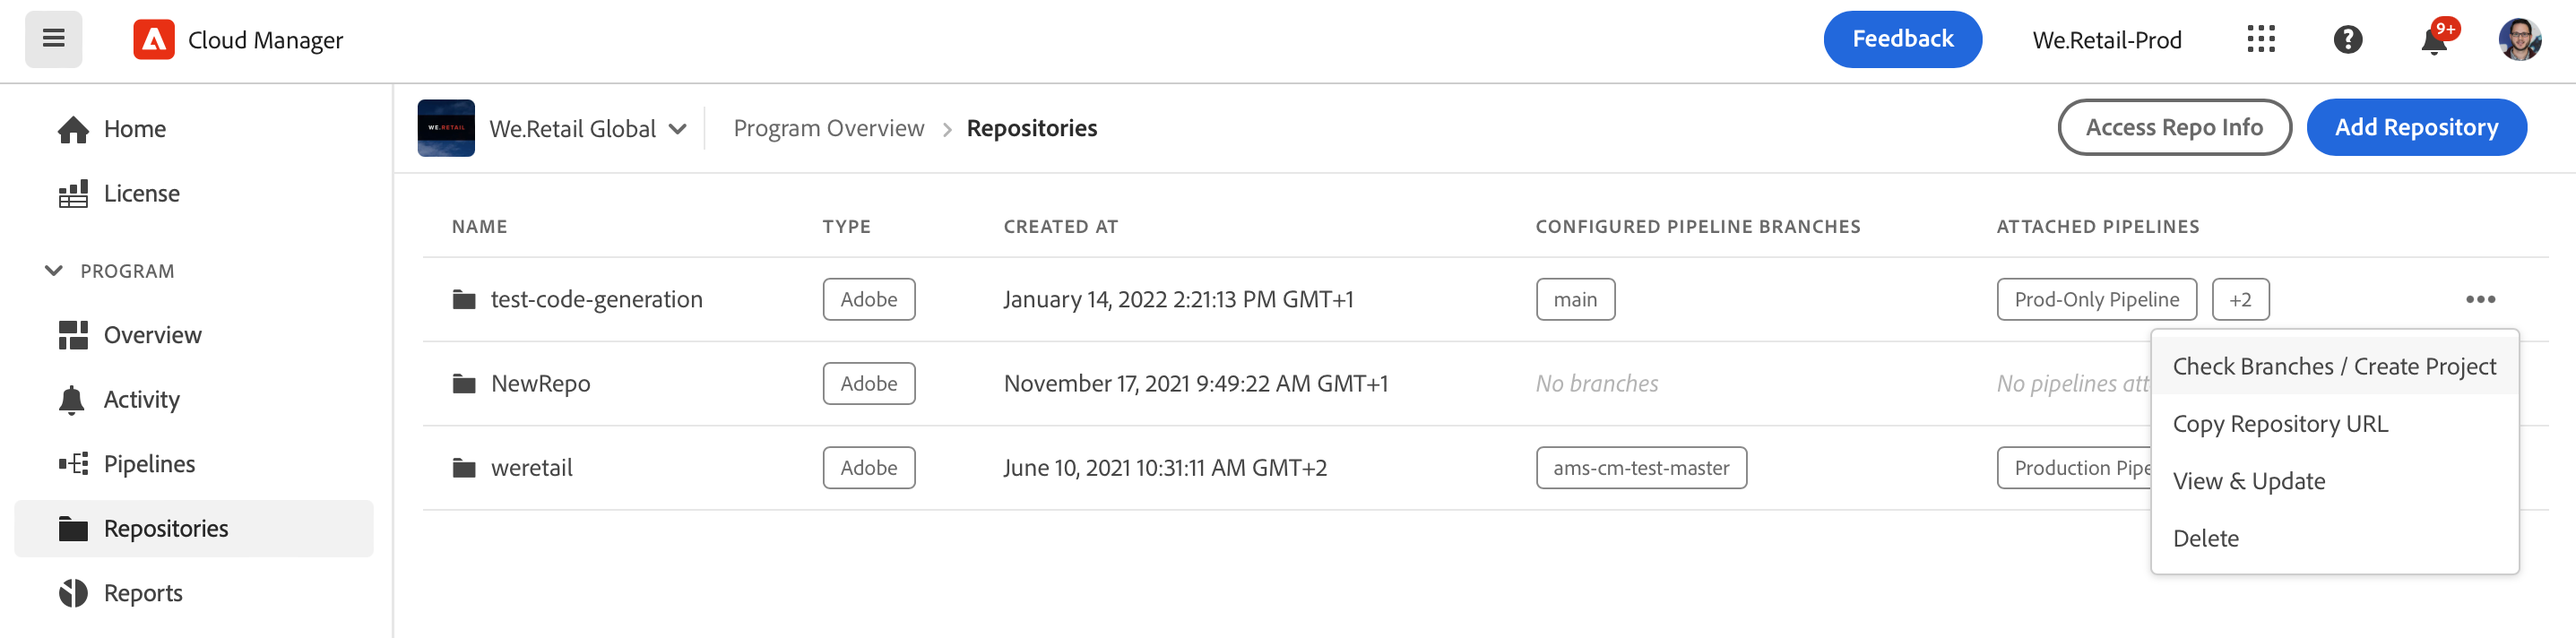
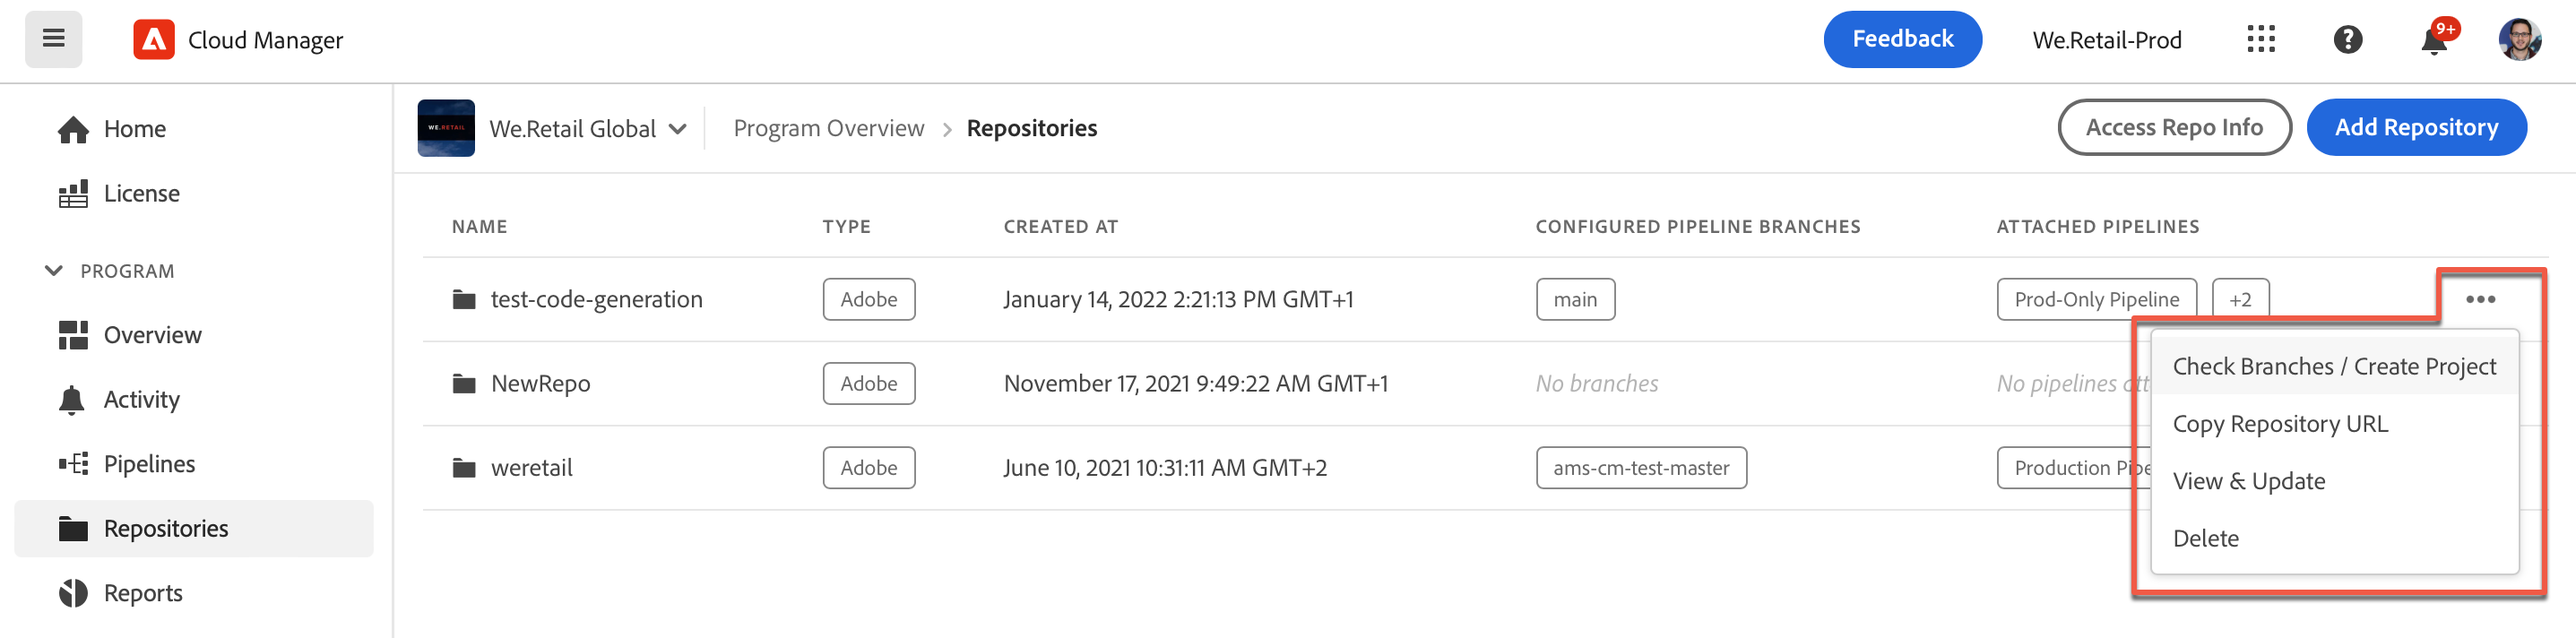
Updates and refinements

Changed region(s): [[0.8051, 0.4017, 0.991, 0.9579]]

diff --git a/help/managing-code/managing-repositories.md b/help/managing-code/managing-repositories.md
@@ -1,103 +1,101 @@
 ---
-title: Managing Repositories in Cloud Manager
-description: Learn how to create, view, and edit your Git repositories in Cloud Manager.
+title: Manage Repositories in Cloud Manager
+description: Learn how to view, add, and delete your Git repositories in Cloud Manager.
 exl-id: 384b197d-f7a7-4022-9b16-9d83ab788966
+feature: Cloud Manager, Developing
+role: Admin, Architect, Developer
 ---
 
-# Cloud Manager repositories {#cloud-manager-repos} 
+# Manage repositories in Cloud Manager {#cloud-manager-repos} 
 
-Learn how to create, view, and edit your Git repositories in Cloud Manager.
+Learn how to view, add, and delete a Git repository in Cloud Manager.
 
 ## Overview {#overview}
 
-Repositories are used to store and manage your project's code using Git. Every program you create in Cloud Manager has an Adobe-managed repository created for it.
+Repositories in Cloud Manager are used to store and manage your project's code using Git. For every *program* you add, an Adobe-managed repository is automatically created. 
 
-You can choose to create additional Adobe-managed repositories and also add your own private repositories. All repositories associated with your program can be viewed in the **Repositories** window.
+In addition, you have the option to create more Adobe-managed repositories or add your own private repositories. All repositories linked to your program can be viewed on the **Repositories** page.
 
-Repositories created in Cloud Manager are also available for you to select when adding or editing pipelines. See [CI-CD Pipelines](/help/overview/ci-cd-pipelines.md) to learn more.
+Repositories created within Cloud Manager can also be selected when adding or editing pipelines. For more information on configuring pipelines, see [CI-CD Pipelines](/help/overview/ci-cd-pipelines.md).
 
-There is a single primary repository or a branch for any given pipeline. With [Git submodule support](git-submodules.md), many secondary branches can be included at build time.
+Each pipeline is linked to a primary repository or branch. However, with [Git submodule support](help/managing-code/git-submodules.md), multiple secondary branches can be included during the build process.
 
-## Repositories window {#repositories-window}
+## View the Repositories page {#repositories-window}
+
+On the **Repositories** page, you can view details about the selected repository. This information includes the type of repository in use. If the repository is marked as **Adobe**, it indicates that it is an Adobe-managed repository. If it is labeled as **GitHub**, it refers to a private GitHub repository that you manage. Additionally, the page provides details such as when the repository was created and the pipelines associated with it.
+
+To take action on a selected repository, you can click on the repository and use ![More icon](https://spectrum.adobe.com/static/icons/workflow_18/Smock_More_18_N.svg) to open a drop-down menu. For Adobe-managed repositories, you can **[Check Branches / Create Project](#check-branches)**. 
+
+![Repository actions](assets/repository-actions.png)
+*Drop-down menu on the Repositories page.*
+
+Other available actions on the drop-down menu include **[Copy Repository URL](#copy-url)**, **[View & Update](#view-update)**, and **[Delete](#delete)** the repository.
+
+**To view the Repositories page:**
 
 1. Log into Cloud Manager at [my.cloudmanager.adobe.com](https://my.cloudmanager.adobe.com/) and select the appropriate organization and program.
 
-1. From the **Program Overview** page, select the **Repositories** tab to switch to the **Repositories** page.
+1. From the **Program Overview** page, on the side menu, click ![Folder icon](https://spectrum.adobe.com/static/icons/workflow_18/Smock_Folder_18_N.svg ) **Repositories**.
 
-1. The **Repositories** window displays all repositories associated with your program.
+1. The **Repositories** page displays all repositories associated with your selected program.
 
-   ![Repositories window](assets/repositories.png)
+   ![Repositories page](assets/repositories.png)
+   *The Repositories page in Cloud Manager.*
 
-The **Repositories** window provides details about the repositories:
 
-* The type of repository.
-  * **Adobe** indicates Adobe-managed repositories
-  * **GitHub** indicates private GitHub repositories that you manage
-* When it was created
-* Pipelines that are associated with the repository
+## Add a repository {#adding-repositories}
 
-You can select the repository in the window and click the ellipsis button to take action on the selected repository.
+A user must have the role **Deployment Manager** or **Business Owner** to add a repository.
 
-* **[Check Branches / Create Project](#check-branches)** (only available for Adobe repositories)
-* **[Copy Repository URL](#copy-url)**
-* **[View &amp; Update](#view-update)**
-* **[Delete](#delete)**
+On the **Repositories** page, near the upper-right corner, click **Add Repository**
 
-![Repository actions](assets/repository-actions.png)
+![Add repository dialog box.](assets/repository-add.png)
+*Add Repository dialog box.*
 
-## Add repositories {#adding-repositories}
+Cloud Manager supports two types of repositories: Adobe-managed repositories (**Adobe Repository**) and self-managed repositories (**Private Repository**). The required fields for setup vary depending on the type of repository you choose to add. For more information, see the following:
 
-Click the **Add Repository** button in the **Repositories** window to start the **Add Repository** wizard.
+* [Add Adobe repositories in Cloud Manager](/help/managing-code/adobe-repositories.md)
+* [Add private repositories in Cloud Manager](/help/managing-code/private-repositories.md)
 
-![Add repository wizard](assets/add-repository-wizard.png)
+There is a limit of 300 repositories across all programs in any given company or IMS organization.
 
-Cloud Manager supports both repositories managed by Adobe (**Adobe Repository**) and your own self-managed repositories (**Private Repository**). The required fields differ depending on the type of repository that you choose to add.
-
-See [Adding Adobe Repositories in Cloud Manager](adobe-repositories.md).
-See [Adding Private Repositories in Cloud Manager](private-repositories.md).
-
->[!NOTE]
->
->A user must have the role **Deployment Manager** or **Business Owner** to be able to add a repository.
->
->There is a limit of 300 repositories across all programs in any given company or IMS organization.
-
-## Access repo info {#repo-info}
+## Access repository information {#repo-info}
 
 When viewing your repositories in the **Repositories** window, you can view the details on how to access the Adobe-managed repositories programmatically by clicking the **Access Repo Info** button on the toolbar.
 
-![Repository information](assets/access-repo-info.png)
+![Repository information](assets/repository-access-repo-info2.png)
 
-The **Repository Info** window opens with the details. For more information on accessing repository information, see [Accessing Repository Information](accessing-repositories.md).
+The **Repository Info** window opens with the details. For more information on accessing repository information, see [Accessing Repository Information](/help/managing-code/accessing-repositories.md).
 
-## Check branches {#check-branches}
+## Check branches / Create Project {#check-branches}
 
-The **Check Branches / Create Project** action performs two functions depending on the state of the repository.
+In **AEM Cloud Manager**, the **Check Branches / Create Project** action serves two purposes, depending on the current state of the repository.
 
-If the repository is newly created, the action creates a sample project based on [the AEM project archetype](https://experienceleague.adobe.com/en/docs/experience-manager-core-components/using/developing/archetype/overview).
+* If the repository is newly created, this action generates a sample project using [the AEM project archetype](https://experienceleague.adobe.com/en/docs/experience-manager-core-components/using/developing/archetype/overview).
+* If the sample project is already created in the repository, the action checks the status of the repository and its branches, providing feedback on whether the sample project already exists.
 
-If the repository already has had the sample project created, it checks the state of the repository and its branches and reports back if the sample project already exists.
-
-![Check branches action](assets/check-branches.png)
+   ![Check branches action](assets/check-branches.png)
 
 ## Copy repository URL {#copy-url}
 
-The **Copy Repository URL** action copies the URL of the repository selected in the **Repositories** window to the clipboard to be used elsewhere.
+The **Copy Repository URL** action copies the URL of the repository selected in the **Repositories** page to the clipboard to be used elsewhere.
 
-## View and Update {#view-update}
+## View &amp; Update a repository {#view-update}
 
-The **View &amp; Update** action opens the **Update Repository** dialog. Using it you can view the **Name** and **Repository URL preview** and update the **Description** of the repository.
+The **View & Update** action opens the **Update Repository** dialog box, where you can view the repository's **Name** and **Repository URL preview**. Additionally, it lets you update the **Description** of the repository.
 
-![View and update repository information](assets/update-repository.png)
+![View and update repository information](assets/repository-view-update.png)
 
-## Delete {#delete}
+## Delete a repository {#delete}
 
 The **Delete** action removes the repository from your project. A repository cannot be deleted if it is associated with a pipeline.
 
-![Delete](assets/delete.png)
+![Deleting a repository](assets/delete.png)
 
 When a repository is deleted in Cloud Manager, it is marked as deleted; it is no longer accessible to the user. However, it is maintained in the system for recovery purposes.
 
-If you try to create a new repository after deleting a repository with the same name, you receive the error message `An error has occurred while trying to create repository. Contact your CSE or Adobe Support.`
+If you try to create a new repository after deleting a repository with the same name, you receive the following error message:
 
-If you receive this error message, contact Adobe Support so they can assist in renaming the deleted repository or choose a different name for your new repository.
+`An error has occurred while trying to create repository. Contact your CSE or Adobe Support.`
+
+If you receive this error message, contact Adobe Support. They can assist you in renaming the deleted repository or choosing a different name for the new repository.

diff --git a/help/managing-code/accessing-repositories.md b/help/managing-code/accessing-repositories.md
@@ -9,48 +9,49 @@ Learn how to access and manage your Adobe-managed Git repositories using the sel
 
 ## Access repository information from the Overview page {#overview-page}
 
-1. Log into Cloud Manager at [my.cloudmanager.adobe.com](https://my.cloudmanager.adobe.com/) and select the appropriate organization and program.
+Cloud Manager makes it easy to retrieve your repository access information for Adobe-managed repositories using **Access Repo Info** from the **Pipelines** card.  
 
-1. Navigate to the **Pipelines** card from your **Program Overview** page.
-
-   ![Access Repo Info button on Environments card](assets/pipelines-card.png)
-
-1. Click **Access Repo Info**. In the **Repository Info for...** dialog box, you can view the following:
+The **Repository Info** dialog box lets you see the following access information for Adobe-managed repositories:
 
    * The Git username.
    * The Git password.
    * The URL to the Cloud Manager Git repository.
    * Prebuilt Git commands to add a remote to your Git repo quickly and push code.
 
-   ![Repository Info window](assets/access-repo-info.png)
+   ![Repository Info window](assets/repository-info.png)
 
-1. To access the password, a new password must be generated. Click **`Generate password`**.
+Access information about [private repositories](/help/managing-code/private-repositories.md) is not available in Cloud Manager.
 
-1. In the **Are you sure...** dialog box, confirm the password generation by clicking **Generate password**.
+The **Access Repo Info** feature is visible to users with **Developer** or **Deployment Manager** roles.
 
-   ![Confirm password generation](assets/confirm-password-generation.png)
+**To access repository information from the Overview page:**
 
-1. In the **Password** field, the password is generated. Click the copy icon to copy it to the clipboard.
+1. Log into Cloud Manager at [my.cloudmanager.adobe.com](https://my.cloudmanager.adobe.com/) and select the appropriate organization and program.
+
+1. From the **Program Overview** page, under the **Pipelines** card, click **Access Repo Info**. 
+
+   ![Access Repo Info on Pipelilnes card](/help/managing-code/assets/pipelines-card2.png)
+
+1. To access the password, a new password must be generated. In the **Repository Info** dialog box, select **Generate password**.
+
+1. In the confirmation dialog box, select **Generate password**.
+
+1. To the right of the **Password** field, click ![Copy icon](https://spectrum.adobe.com/static/icons/workflow_18/Smock_Copy_18_N.svg) to copy the password to the clipboard.
 
    * Generating a password invalidates the previous password.
-   * Cloud Manager does not save your access password. Be sure you save this password securely.
-   * If you lose the password, you must generate a new one.
+   * Cloud Manager does not save the password. It is your responsibility to save the password securely.
+   * Because Cloud Manager does not save the password, if you lose the password, you must regenerate a new one.
 
-   ![Example of a generated password](assets/generated-password.png)
+   ![Copy password in Repository Info dialog box](/help/managing-code/assets/repository-copy-password.png)
 
 Using these credentials, you can clone a local copy of the repository, make changes in that local repository, and when ready commit any code changes back to the remote code repository in Cloud Manager.
 
->[!NOTE]
->
->* The **Access Repo Info** option is visible to users with the **Developer** role, or the **Deployment Manager** role, or both.
->* The **Access Repo Info** button only displays the repository access information for Adobe-managed repositories. Access information about [private repositories](private-repositories.md) is not available in Cloud Manager.
-
 ## Access repository information from the Repositories window {#repositories-window}
 
-The **Access Repo Info** button is also available on the toolbar of the [**Repositories** window](managing-repositories.md). It displays the same information about accessing Adobe-managed repositories.
+The **Access Repo Info** feature is also available from the [**Repositories** page](/help/managing-code/managing-repositories.md). It displays the same information about accessing Adobe-managed repositories.
 
 ## Revoke an access password {#revoke-password}
 
-You can revoke an access password at any time. [Create a support ticket for such a request](https://experienceleague.adobe.com/?support-solution=Experience+Manager&support-tab=home#support).
+You can revoke an access password at any time. 
 
-The ticket is treated with high priority and is typically revoked within one day.
+To do so, [create a support ticket for this request](https://experienceleague.adobe.com/?support-solution=Experience+Manager&support-tab=home#support). The ticket is treated with high priority and is usually revoked within one day.

diff --git a/help/managing-code/adobe-repositories.md b/help/managing-code/adobe-repositories.md
@@ -1,30 +1,41 @@
 ---
-title: Adding Adobe Repositories in Cloud Manager
-description: Learn how to create Adobe-managed repositories in Cloud Manager.
+title: Add an Adobe Repository in Cloud Manager
+description: Learn how to add Adobe-managed repositories in Cloud Manager.
 exl-id: 24c6ca97-ea70-41b8-b4c7-b8b0f406a57d
+feature: Cloud Manager, Developing
+role: Admin, Architect, Developer
 ---
-# Add Adobe repositories in Cloud Manager {#adobe-repositories}
+# Add an Adobe repository in Cloud Manager {#adobe-repositories}
 
-Learn how to create Adobe-managed repositories in Cloud Manager.
+Learn how to add an Adobe-managed repository in Cloud Manager.
 
-## Add an Adobe-managed repository {#add-adobe-repository}
+The **Repositories** page makes it easy to add additional Adobe-managed repositories to a selected program.
 
-The **Repositories** window makes it easy to add additional Adobe-managed repositories for your program.
+**To add an Adobe repository in Cloud Manager:**
 
-1. Log into Cloud Manager at [my.cloudmanager.adobe.com](https://my.cloudmanager.adobe.com/) and select the appropriate organization and program.
+1. Log into Cloud Manager at [my.cloudmanager.adobe.com](https://my.cloudmanager.adobe.com/) and select the appropriate organization and the program to which you want to add an Adobe-managed repository.
 
-1. From the **Program Overview** page, select the **Repositories** tab to switch to the **Repositories** page.
+1. From the **Program Overview** page, in the side menu, click ![Folder icon](https://spectrum.adobe.com/static/icons/workflow_18/Smock_Folder_18_N.svg) **Repositories** tab.
 
-1. Click **Add Repository** in the toolbar.
+1. On the **Repositories** page, near the upper-right, click **Add Repository**.
 
-   ![Add repository button](assets/repositories.png)
+   ![Add repository button](/help/managing-code/assets/repositories-tab.png)
+  
+1. In the **Add Repository** dialog box, make sure that **Adobe Repository** is selected as the repository type.
 
-1. Enter the name and description as requested and click **Save**.
+1. In the respective text fields, enter the following:
 
-   ![Add Repository dialog](assets/add-repository-wizard.png)
+   * **Repository name** - An expressive name for your new repository.
+   * **Repository URL preview** - You do not need to enter a URL path or edit the existing path because the repository infrastructure is already in place and fully integrated and managed by Adobe.
+   * **Description (optional)** - A detailed description of the repository.
 
-When the wizard closes, your new repository is displayed in the table in the **Repositories** window. You can now associate a [CI/CD pipeline](/help/overview/ci-cd-pipelines.md) with it or manage it within the [**Repositories** window](managing-repositories.md).
+   ![Add Repository dialog box](/help/managing-code/assets/repository-add-adobe.png)
+
+1. Click **Save**.
+   Your new repository is displayed in the table on the **Repositories** page. 
+
+You can now associate a [CI/CD pipeline](/help/overview/ci-cd-pipelines.md) with it or manage it within the [**Repositories** page](/help/managing-code/managing-repositories.md).
 
 >[!TIP]
 >
->You can also add GitHub repositories that you manage yourself as [private repositories](private-repositories.md).
+>You can also add GitHub repositories that you manage yourself as [private repositories](/help/managing-code/private-repositories.md).
